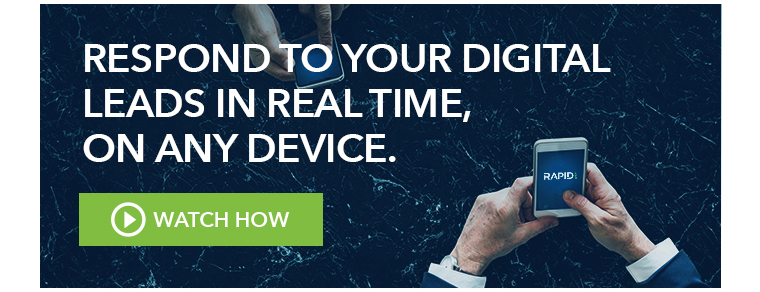
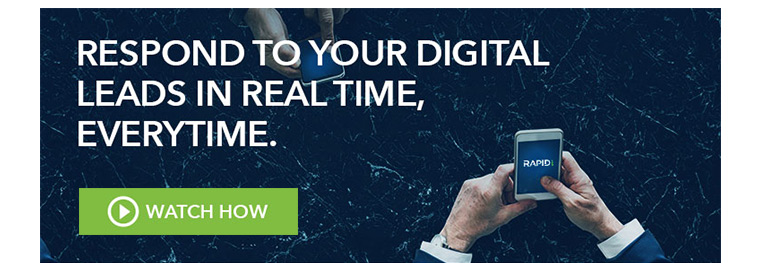
Updated rapidrtc emails.

diff --git a/rapidrtc/201808/src/US1.html b/rapidrtc/201808/src/US1.html
@@ -1,0 +1,196 @@
+<!DOCTYPE html>
+<html>
+<head>
+	<title>RAPID RTC Lead Manager – Never let a lead go untouched again.</title>
+	<meta charset="utf-8">
+	<meta content="width=device-width, initial-scale=1" name="viewport">
+	<meta content="IE=edge" http-equiv="X-UA-Compatible">
+	<style type="text/css">
+	   /* CLIENT-SPECIFIC STYLES */
+	   body, table, td, a{-webkit-text-size-adjust: 100%; -ms-text-size-adjust: 100%;} /* Prevent WebKit and Windows mobile changing default text sizes */
+	   table, td{mso-table-lspace: 0pt; mso-table-rspace: 0pt;} /* Remove spacing between tables in Outlook 2007 and up */
+	   img{-ms-interpolation-mode: bicubic;} /* Allow smoother rendering of resized image in Internet Explorer */
+
+	   /* RESET STYLES */
+	   img{border: 0; height: auto; line-height: 100%; outline: none; text-decoration: none;}
+	   table{border-collapse: collapse !important;}
+	   body{height: 100% !important; margin: 0 !important; padding: 0 !important; width: 100% !important;}
+
+	   /* iOS BLUE LINKS */
+	   a[x-apple-data-detectors] {
+	       color: inherit !important;
+	       text-decoration: none !important;
+	       font-size: inherit !important;
+	       font-family: inherit !important;
+	       font-weight: inherit !important;
+	       line-height: inherit !important;
+	   }
+
+	   /* MOBILE STYLES */
+	   @media screen and (max-width: 525px) {
+
+	       /* ALLOWS FOR FLUID TABLES */
+	       .wrapper {
+	         width: 100% !important;
+	           max-width: 100% !important;
+	       }
+
+	       /* ADJUSTS LAYOUT OF LOGO IMAGE */
+	       .logo img {
+	         margin: 0 auto !important;
+	       }
+
+	       /* USE THESE CLASSES TO HIDE CONTENT ON MOBILE */
+	       .mobile-hide {
+	         display: none !important;
+	       }
+
+				 .desktop-hide {
+	         display: block !important;
+	       }
+
+	       .img-max {
+	         max-width: 100% !important;
+	         width: 100% !important;
+	         height: auto !important;
+	       }
+
+	       /* FULL-WIDTH TABLES */
+	       .responsive-table {
+	         width: 100% !important;
+	       }
+
+	       /* UTILITY CLASSES FOR ADJUSTING PADDING ON MOBILE */
+	       .padding {
+	         padding: 0 0 0 0 !important;
+	       }
+
+	       .padding-meta {
+	         padding: 30px 5% 0px 5% !important;
+	         text-align: center;
+	       }
+
+	       .padding-copy {
+	            padding: 10px 5% 10px 5% !important;
+	         text-align: center;
+	       }
+
+	       .no-padding {
+	         padding: 0 !important;
+	       }
+
+	       .section-padding {
+	         padding: 50px 15px 0px 15px !important;
+	       }
+
+	       /* ADJUST BUTTONS ON MOBILE */
+	       .mobile-button-container {
+	           margin: 0 auto;
+	           width: 100% !important;
+	       }
+
+	       .mobile-button {
+	           padding: 15px !important;
+	           border: 0 !important;
+	           font-size: 16px !important;
+	           display: block !important;
+	       }
+
+	   }
+
+	   /* ANDROID CENTER FIX */
+	   div[style*="margin: 16px 0;"] { margin: 0 !important; }
+	</style>
+</head>
+<body style="margin: 0 !important; padding: 0 !important;">
+	<!-- HEADER -->
+	<table border="0" cellpadding="0" cellspacing="0" width="100%">
+		<tr>
+			<td align="center" bgcolor="#FFFFFF"><!--[if (gte mso 9)|(IE)]>
+            <table align="center" border="0" cellspacing="0" cellpadding="0" width="500">
+            <tr>
+            <td align="center" valign="top" width="500">
+            <![endif]-->
+			<!--[if (gte mso 9)|(IE)]>
+            </td>
+            </tr>
+            </table>
+            <![endif]--></td>
+		</tr>
+		<tr>
+			<td align="center" bgcolor="#FFFFFF" class="section-padding" style="padding: 0 0 0 0;">
+				<!--[if (gte mso 9)|(IE)]>
+            <table align="center" border="0" cellspacing="0" cellpadding="0" width="500">
+            <tr>
+            <td align="center" valign="top" width="500">
+            <![endif]-->
+				<table border="0" cellpadding="0" cellspacing="0" class="responsive-table" style="max-width: 760px;" width="100%">
+					<tr>
+						<td>
+							<!-- HERO IMAGE -->
+							<table border="0" cellpadding="0" cellspacing="0" width="100%">
+								<tr>
+									<td align="center" class="padding">
+										<a href="https://rapidrtc.com/" target="_blank"><img alt="RAPID RTC" border="0" class="img-max" height="98" src="http://emails.richmondday.com/RapidRTC/US/header.jpg" style="display: block; padding: 0; color: #666666; text-decoration: none; font-family: Helvetica, arial, sans-serif; font-size: 16px;" width="760"></a>
+									</td>
+								</tr>
+								<tr>
+									<td align="center" class="padding">
+										<a href="https://rapidrtc.com/chat/" target="_blank">
+											<img alt="RAPID RTC" border="0" class="img-max mobile-hide" height="326" src="http://emails.richmondday.com/RapidRTC/US/watch.jpg" style="display: block; padding: 0; color: #666666; text-decoration: none; font-family: Helvetica, arial, sans-serif; font-size: 16px;" width="760">
+											<img alt="RAPID RTC" border="0" class="img-max desktop-hide" height="326" src="http://emails.richmondday.com/RapidRTC/US/watch-nobutton.jpg" style="display: none; padding: 0; color: #666666; text-decoration: none; font-family: Helvetica, arial, sans-serif; font-size: 16px;" width="760">
+										</a>
+									</td>
+								</tr>
+								<tr>
+									<td align="center" class="padding">
+										<a href="https://rapidrtc.com/chat/" target="_blank">
+											<img class="desktop-hide" alt="WATCH NOW" border="0" width="244" height="auto" style="display: none; padding: 0 0 15px 0;" src="http://emails.richmondday.com/RapidRTC/US/button-watch.jpg" />
+										</a>
+									</td>
+								</tr>
+								<tr>
+									<td>
+										<!-- COPY -->
+										<table border="0" cellpadding="0" cellspacing="0" class="responsive-table" style="max-width:700px" width="100%">
+											<tr>
+												<td align="left" class="padding" style="padding: 0 0 0 40px; font-size: 14px; line-height: 18px; font-family: Helvetica, Arial, sans-serif; color: #666666;">Hi John,<br>
+												<br>
+												At RAPID RTCTM, we pride ourselves on helping dealers get the most out of every sales opportunity, by enhancing the consumer experience. RAPID RTC Chat connects online customers to your sales team in real time, and on any device, which is what makes us the leading chat tool in Canada. Click to watch the short video and see why.<br>
+												<br>
+												I will contact you soon to discuss how we can increase your ROI. Appreciate your time!<br>
+												<br>
+												Thanks, Kevin<br>
+												Contact info<br>
+												Contact info<br>
+												<br>
+												<br></td>
+											</tr>
+										</table>
+										<table border="0" cellpadding="0" cellspacing="0" class="responsive-table" style="max-width:700px" width="100%">
+											<tr>
+												<td align="center" class="padding" style="padding: 0 0 0 40px; font-size: 14px; line-height: 18px; font-family: Helvetica, Arial, sans-serif; color: #666666;"><br>
+												<br>
+												<br></td>
+											</tr>
+										</table>
+									</td>
+								</tr>
+							</table>
+						</td>
+					</tr>
+				</table><!--[if (gte mso 9)|(IE)]>
+
+				<!-- UNSUBSCRIBE COPY -->
+			<table border="0" cellpadding="0" cellspacing="0" class="responsive-table" style="max-width: 760px;" width="100%">
+					<tr>
+						<td align="center" class="padding">
+							<a href="https://rapidrtc.com" target="_blank"><img alt="Insert alt text here" border="0" class="img-max" height="100" src="http://emails.richmondday.com/RapidRTC/US/footer.jpg" style="display: block; padding: 0; color: #666666; text-decoration: none; font-family: Helvetica, arial, sans-serif; font-size: 16px;" width="760"></a>
+						</td>
+					</tr>
+			</table>
+			</td>
+		</tr>
+	</table>
+</body>
+</html>

diff --git a/rapidrtc/201808/src/US2.html b/rapidrtc/201808/src/US2.html
@@ -26,10 +26,6 @@
 	       line-height: inherit !important;
 	   }
 
-		 .desktop-hide {
-			 display: none !important;
-		 }
-
 	   /* MOBILE STYLES */
 	   @media screen and (max-width: 525px) {
 
@@ -49,9 +45,9 @@
 	         display: none !important;
 	       }
 
-			.desktop-hide {
-				display: block !important;
-			}
+				 .desktop-hide {
+	         display: block !important;
+	       }
 
 	       .img-max {
 	         max-width: 100% !important;
@@ -66,7 +62,7 @@
 
 	       /* UTILITY CLASSES FOR ADJUSTING PADDING ON MOBILE */
 	       .padding {
-	         padding: 0px 0px 0px !important;
+	         padding: 0 0 0 0 !important;
 	       }
 
 	       .padding-meta {
@@ -84,14 +80,10 @@
 	       }
 
 	       .section-padding {
-	         padding: 50px 0px 0px 0px !important;
+	         padding: 50px 15px 0px 15px !important;
 	       }
 
 	       /* ADJUST BUTTONS ON MOBILE */
-		   .copy {
-			   padding: 0 15px 0 15px !important;
-		   }
-
 	       .mobile-button-container {
 	           margin: 0 auto;
 	           width: 100% !important;
@@ -139,26 +131,16 @@
 							<table border="0" cellpadding="0" cellspacing="0" width="100%">
 								<tr>
 									<td align="center" class="padding">
-										<a href="https://rapidrtc.com/" target="_blank">
-											<img alt="RAPID RTC" border="0" class="img-max mobile-hide" height="135" src="http://emails.richmondday.com/RapidRTC/US/header2.jpg" style="display: block; padding: 0; color: #666666; text-decoration: none; font-family: Helvetica, arial, sans-serif; font-size: 16px;" width="760">
-											<img alt="RAPID RTC" border="0" class="img-max desktop-hide" height="98" src="http://emails.richmondday.com/RapidRTC/US/header.jpg" style="display: block; padding: 0; color: #666666; text-decoration: none; font-family: Helvetica, arial, sans-serif; font-size: 16px;" width="760">
-										</a>
+										<a href="https://rapidrtc.com/" target="_blank"><img alt="RAPID RTC" border="0" class="img-max" height="135" src="http://emails.richmondday.com/RapidRTC/US/header2.jpg" style="display: block; padding: 0; color: #666666; text-decoration: none; font-family: Helvetica, arial, sans-serif; font-size: 16px;" width="760"></a>
 									</td>
 								</tr>
-
-							</tr>
-							<tr>
-								<td align="center" class="padding desktop-hide">
-									<a href="https://rapidrtc.com/chat/" target="_blank"><img alt="RAPID RTC" border="0" class="img-max" height="326" src="http://emails.richmondday.com/RapidRTC/US/watch.jpg" style="display: block; padding: 0; color: #666666; text-decoration: none; font-family: Helvetica, arial, sans-serif; font-size: 16px;" width="760"></a>
-								</td>
-							</tr>
 								
 								<tr>
 									<td>
 										<!-- COPY -->
 										<table border="0" cellpadding="0" cellspacing="0" class="responsive-table" style="max-width:700px" width="100%">
 											<tr>
-												<td align="left" class="padding copy" style="padding: 0 0 0 40px; font-size: 14px; line-height: 18px; font-family: Helvetica, Arial, sans-serif; color: #666666;">Hi John,<br>
+												<td align="left" class="padding" style="padding: 0 0 0 40px; font-size: 14px; line-height: 18px; font-family: Helvetica, Arial, sans-serif; color: #666666;">Hi John,<br>
 												<br>
 												At RAPID RTCTM, we pride ourselves on helping dealers get the most out of every sales opportunity, by enhancing the consumer experience. RAPID RTC Chat connects online customers to your sales team in real time, and on any device, which is what makes us the leading chat tool in Canada. Click to watch the short video and see why.<br>
 												<br>
@@ -170,17 +152,30 @@
 												</td>
 											</tr>
 										</table>
-										<br/ >
-										<br/ >
-										<br/ >
-										<br/ >
+										<table border="0" cellpadding="0" cellspacing="0" class="responsive-table" style="max-width:700px" width="100%">
+											<tr>
+												<td align="center" class="padding" style="padding: 0 0 0 40px; font-size: 14px; line-height: 18px; font-family: Helvetica, Arial, sans-serif; color: #666666;"><br>
+												<br>
+												<br></td>
+											</tr>
+										</table>
 									</td>
 								</tr>
-                                <tr>
-									<td align="center" class="padding mobile-hide">
-										<a href="https://rapidrtc.com/chat/" target="_blank"><img alt="RAPID RTC" border="0" class="img-max" height="292" src="http://emails.richmondday.com/RapidRTC/US/watch2.jpg" style="display: block; padding: 0; color: #666666; text-decoration: none; font-family: Helvetica, arial, sans-serif; font-size: 16px;" width="760"></a>
+                <tr>
+									<td align="center" class="padding">
+										<a href="https://rapidrtc.com/chat/" target="_blank">
+											<img alt="RAPID RTC" border="0" class="img-max mobile-hide" height="292" src="http://emails.richmondday.com/RapidRTC/US/watch2.jpg" style="display: block; padding: 0; color: #666666; text-decoration: none; font-family: Helvetica, arial, sans-serif; font-size: 16px;" width="760">
+											<img alt="RAPID RTC" border="0" class="img-max desktop-hide" height="326" src="http://emails.richmondday.com/RapidRTC/US/watch2-nobutton.jpg" style="display: none; padding: 0; color: #666666; text-decoration: none; font-family: Helvetica, arial, sans-serif; font-size: 16px;" width="760">
+										</a>
 									</td>
 								</tr>
+								<tr>
+										<td align="center" class="padding">
+											<a href="https://rapidrtc.com/chat/" target="_blank">
+												<img class="desktop-hide" alt="WATCH NOW" border="0" width="244" height="auto" style="display: none; padding: 25px 0 0 0;" src="http://emails.richmondday.com/RapidRTC/US/button-watch.jpg" />
+											</a>
+										</td>
+									</tr>
 							</table>
 						</td>
 					</tr>
@@ -191,7 +186,7 @@
 				<table style="max-width:760px" width="100%">
 					<tr>
 						<td align="center" class="padding">
-							<a href="https://rapidrtc.com" target="_blank"><br /><br /><br /><img alt="Insert alt text here" border="0" class="img-max" height="100" src="http://emails.richmondday.com/RapidRTC/US/footer.jpg" style="display: block; padding: 0; color: #666666; text-decoration: none; font-family: Helvetica, arial, sans-serif; font-size: 16px;" width="760"></a>
+							<a href="https://rapidrtc.com" target="_blank"><br /><br /><br /><br /><img alt="Insert alt text here" border="0" class="img-max" height="100" src="http://emails.richmondday.com/RapidRTC/US/footer.jpg" style="display: block; padding: 0; color: #666666; text-decoration: none; font-family: Helvetica, arial, sans-serif; font-size: 16px;" width="760"></a>
 						</td>
 					</tr>
 				</table>
